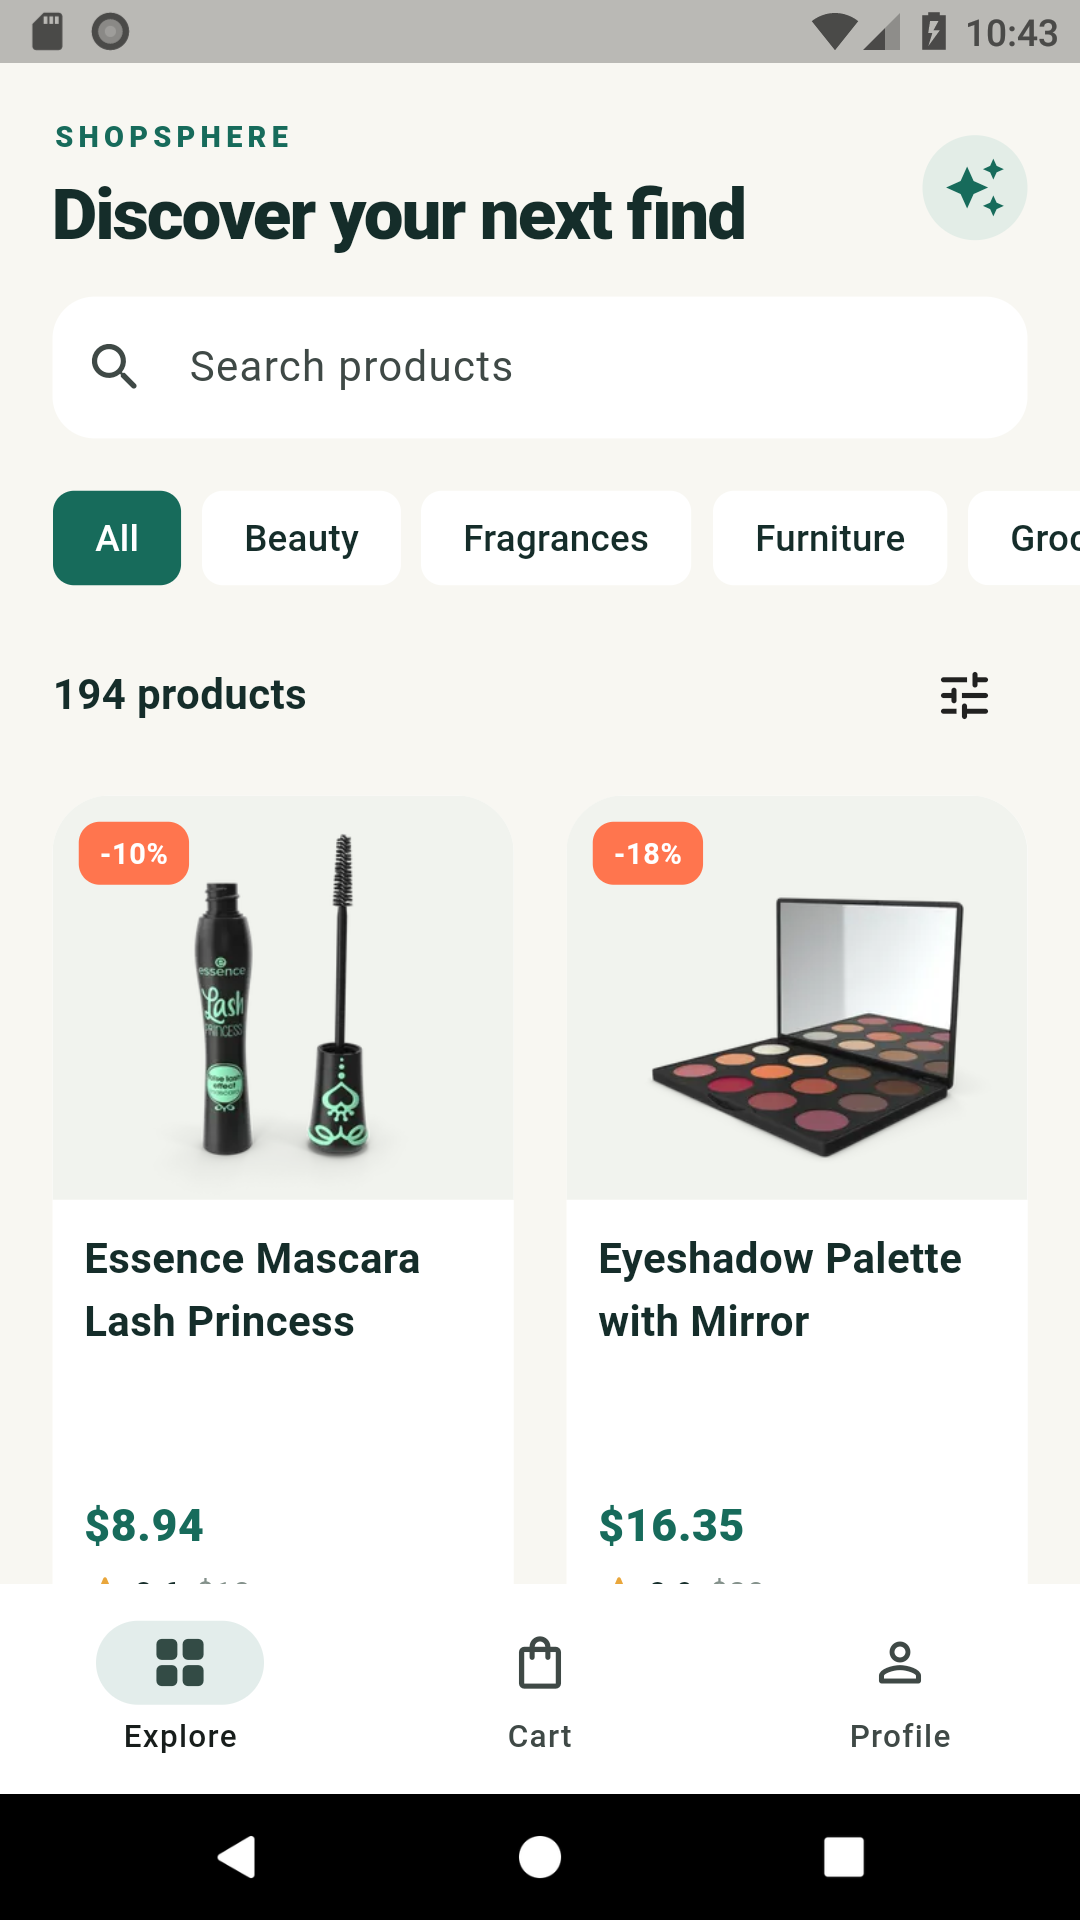
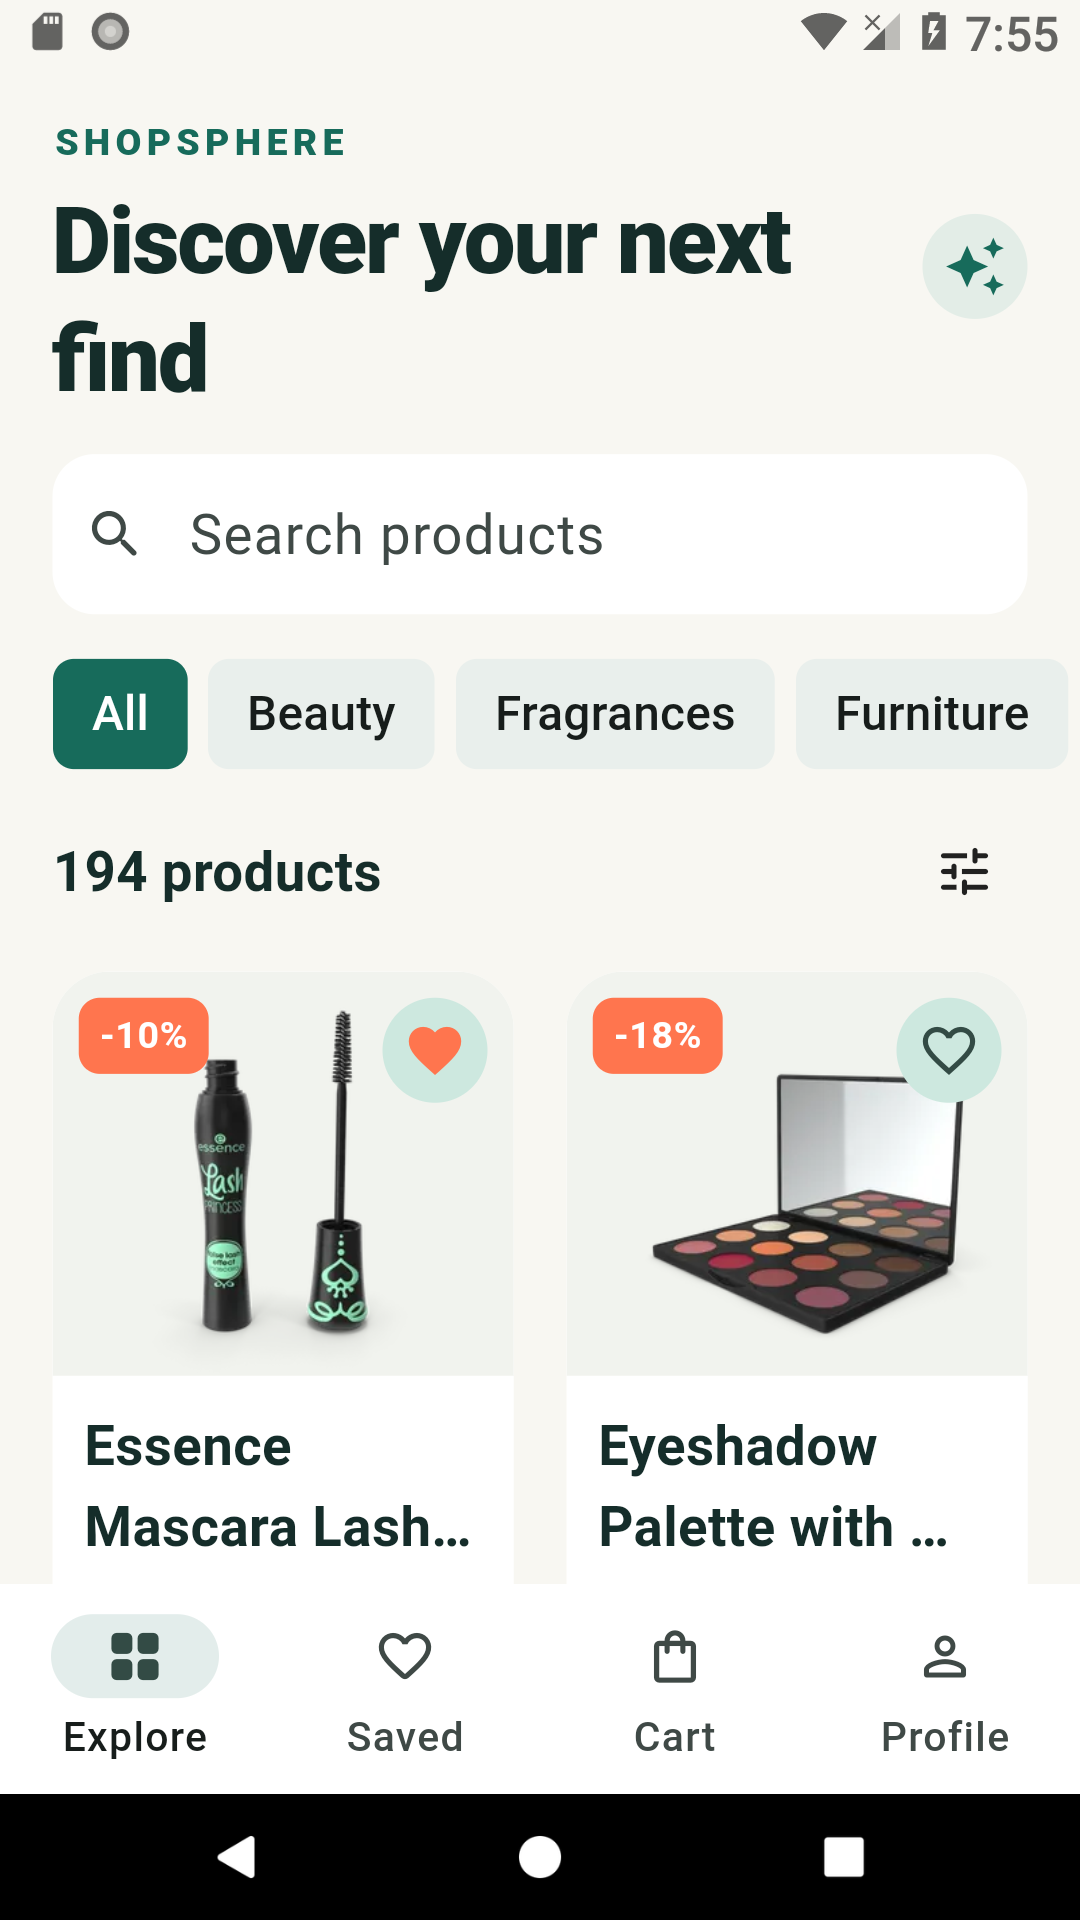
docs(qa): record final release verification and screenshots

diff --git a/README.md b/README.md
@@ -1,10 +1,10 @@
 # ShopSphere
 
-ShopSphere is a Material 3 shopping app for the Prosessed Flutter Developer Intern assignment. It uses the public DummyJSON API for sign-in, product discovery, profile and simulated checkout. The cart is stored on the device. The app is designed for phones and tablets, with a navigation rail and a side-by-side product view on wide layouts.
+ShopSphere is a Material 3 shopping app for the Prosessed Flutter Developer Intern assignment. It uses the public DummyJSON API for sign-in, product discovery, profile and simulated checkout. The app includes persistent cart and saved items, an offline product cache, dark mode, and English/Hindi UI. It is designed for phones and tablets, with a navigation rail and a side-by-side product view on wide layouts.
 
-> **Submission status:** Release APK built, signature-verified, installed and smoke-tested on Android 8.0 phone and tablet emulators. Phone/tablet screenshots and live API error-test evidence are included. Demo video, GitHub Release, Drive upload and public-link checks remain before submission. The confidential assignment brief is intentionally excluded from this repository.
+> **Submission status:** Implementation and local QA are complete. The release APK is signature-verified and install-tested on Android 8.0 phone and tablet emulators; screenshots and live API error evidence are included. The demo video, remote release/Drive upload, and final public-link checks are the remaining submission steps. The confidential assignment brief is intentionally excluded from this repository.
 
-Local APK: `release/ShopSphere_Manu_R_v1.0.0.apk` (53.9 MB; build artifact, not committed). Published APK and demo-video links are pending. See the [device QA report](docs/QA_REPORT.md) for tested flows, artifact checksum and reproduction commands.
+Local APK: `release/ShopSphere_Manu_R_v1.0.0.apk` (55,603,930 bytes; build artifact, not committed). Published APK and demo-video links are pending. See the [device QA report](docs/QA_REPORT.md) for tested flows, artifact checksum and reproduction commands.
 
 ## Screenshots
 
@@ -18,6 +18,10 @@ Captured from the installed Android release app. Tablet captures use 1.3× syste
 | --- | --- |
 | ![Tablet landscape](screenshots/tablet/01-landscape-master-detail.png) | ![Tablet portrait](screenshots/tablet/02-portrait-grid.png) |
 
+| Saved items | Offline cache | Dark mode |
+| --- | --- | --- |
+| ![Saved items](screenshots/phone/06-saved.png) | ![Offline cached catalogue](screenshots/phone/06-offline.png) | ![Dark mode profile](screenshots/phone/09-dark-mode.png) |
+
 See the [screenshot index](screenshots/README.md) for profile, airplane-mode recovery, large-text checks, and the separate integration-test captures.
 
 ## Features
@@ -28,30 +32,33 @@ See the [screenshot index](screenshots/README.md) for profile, airplane-mode rec
 | Paginated product catalogue, pull-to-refresh, API categories, search debounce and sorting | Implemented; automated tests and Android catalogue/search checks |
 | Product carousel, reviews, stock, quantity selector and missing-product handling | Implemented; Android details and live 404 checks pass |
 | Persistent cart, totals, badge, simulated checkout and confirmation | Implemented; Android restart and checkout checks pass |
-| Profile via `/auth/me`, logout and expiry handling | Implemented; Android profile and live 401 checks pass |
+| Profile via `/auth/me`, logout, token refresh and expiry handling | Implemented; unit tests and live invalid-refresh check pass |
 | Phone grid/bottom navigation, tablet rail and wide master-detail layout | Verified in phone/tablet portrait and landscape, including 1.3× text |
 | GitHub Actions for format, analysis and tests | Configured; remote run pending |
-| Automatic token refresh, dark theme, wishlist, offline catalogue cache, localization | Not implemented (optional bonus scope) |
+| Automatic token refresh and one-time protected-request retry | Implemented; successful refresh and invalid-refresh paths tested |
+| Persistent wishlist and offline product/category/detail cache | Implemented; restart and airplane-mode fallback verified |
+| Dark theme, English/Hindi localization and product Hero transition | Implemented; preferences persist across restart |
 
 ## Tech stack
 
 - **Flutter 3.47.7 / Dart 3.13.5:** stable SDK used for local analysis and tests.
 - **Provider:** one state-management mechanism for explicit `ChangeNotifier` states and scoped UI rebuilds.
 - **get_it:** composition-root dependency injection so widgets do not construct repositories.
-- **Dio:** one configured API client with timeouts, bearer-token interceptor and debug-only request logging.
+- **Dio:** one configured API client with timeouts, bearer-token/refresh interceptors and debug-only request logging.
 - **flutter_secure_storage:** access and refresh tokens in platform secure storage.
-- **shared_preferences:** small JSON cart snapshot that survives restart.
+- **shared_preferences:** cart, wishlist, product cache, theme and language preferences that survive restart.
 - **cached_network_image:** cached product images with loading and error placeholders.
 - **flutter_lints, flutter_test, mocktail:** static checks and isolated tests.
 
 ## Architecture
 
 ```text
-Widget → Provider controller → use case → repository interface
+Widget → Provider controller → use case → repository contract
                                         ↓
                                repository implementation
-                                        ↓
-                               Dio / secure or local storage
+                                ↙                 ↘
+                    remote data source       local data source
+                           Dio            secure/preferences storage
 ```
 
 Each feature lives under `lib/features/<feature>/` with `presentation`, `domain` and `data` directories. The domain layer contains plain Dart entities and contracts. `lib/core/` holds error mapping, network setup, dependency wiring, theme and shared UI. `main.dart` is the composition entry point.
@@ -64,7 +71,7 @@ Provider and `ChangeNotifier` keep the assignment's small set of flows straightf
 
 ## Error handling
 
-The shared `mapFailure` function converts Dio timeouts, socket errors, HTTP 400/401/403/404/5xx and parse failures into user-facing typed failures. Protected requests attach the bearer token. HTTP 401 clears the token and returns to login. Network screens expose retry controls; catalogue pagination has its own retry footer. Automatic refresh is left as bonus work.
+The shared `mapFailure` function converts Dio timeouts, socket errors, HTTP 400/401/403/404/5xx and parse failures into user-facing typed failures. Protected requests attach the bearer token. On HTTP 401, the client uses the stored refresh token and retries the original request once; an invalid refresh safely clears the session and returns to login. Network screens expose retry controls, catalogue pagination has its own retry footer, and network-only catalogue failures can fall back to a query-keyed local cache with a visible offline banner.
 
 ## Getting started
 
@@ -74,13 +81,13 @@ The shared `mapFailure` function converts Dio timeouts, socket errors, HTTP 400/
 4. Run `dart format lib test`, `flutter analyze` and `flutter test`.
 5. Build with `flutter build apk --release`.
 
-No code generation is used. The Android and iOS platform projects are included in this repository.
+No code generation is required. The Android and iOS platform projects are included in this repository. Android is fully build/device verified; the iOS target was not compiled in the local QA environment because full Xcode is not installed.
 
 ## Testing
 
-Run `flutter test --coverage`. **59 unit/widget tests pass**, covering JSON fixtures, repository success and failure paths, validation, failure mapping, controller state transitions, cart totals, checkout, and large-text layout. Short-viewport regression tests verify that error and empty-state actions remain reachable at 1.3× text. Current line coverage is **81.3%** (932 of 1,147 measured lines). `flutter analyze` reports zero issues.
+Run `flutter test --coverage`. **66 unit/widget tests pass**, covering JSON fixtures, repository/data-source boundaries, validation, failure mapping, controller state transitions, token refresh, offline fallback, persisted settings/wishlist, out-of-stock behavior, cart totals, checkout, and large-text layouts. Short-viewport regression tests verify that error and empty-state actions remain reachable at 1.3× text. Current line coverage is **78.0%** (1,257 of 1,612 measured lines). `flutter analyze` reports zero issues.
 
-The separate Android live-API integration scenario also passes. It exercises actual DummyJSON HTTP 400, 500, 404, delayed success, receive timeout and 401 responses through the app's repositories/controllers/UI. Run it on a disposable test emulator (it clears that app's stored session/cart):
+The separate Android live-API integration scenario also passes. It exercises actual DummyJSON HTTP 400, 500, 404, delayed success, receive timeout, and the protected-request/invalid-refresh flow through the app's repositories, controllers and UI. Run it on a disposable test emulator (it clears that app's stored session/cart):
 
 ```sh
 flutter drive --driver=test_driver/live_api_test.dart --target=integration_test/live_api_test.dart -d <android-device-id> --debug
@@ -95,7 +102,7 @@ Password: `emilyspass`
 
 ## Assumptions and trade-offs
 
-DummyJSON checkout only simulates an order; the server does not persist it. The app clears its local cart only after a successful response, and clears it on logout to avoid showing one account's items to another. Search and category selection are mutually exclusive because DummyJSON exposes separate search and category endpoints. Prices are displayed in the API's dollar denomination. The generated Android release configuration currently uses a local debug signing key for this demo; production distribution would require a separately managed release key. With more time I would add token refresh, a product cache, accessibility audit on real devices, and a dark theme.
+DummyJSON checkout only simulates an order; the server does not persist it. The app clears its local cart only after a successful response, and clears account-scoped local state on logout. Search and category selection are mutually exclusive because DummyJSON exposes separate search and category endpoints. Offline fallback is intentionally limited to network failures, so server/timeout states remain visible and retryable. Prices use the API's dollar denomination. The Android release configuration uses a local debug signing key for this assignment artifact; production distribution would require a separately managed release key. A physical-device accessibility audit and full iOS build remain sensible production follow-ups.
 
 ## AI assistance
 
@@ -103,4 +110,4 @@ Codex assisted with implementation planning, code generation, test scaffolding, 
 
 ## Author
 
-Manu R. Contact email and portfolio link to be confirmed before publication.
+Manu R · [GitHub](https://github.com/manuprince123) · [manu108cs21028@gmail.com](mailto:manu108cs21028@gmail.com)

diff --git a/docs/QA_REPORT.md b/docs/QA_REPORT.md
@@ -5,8 +5,8 @@ Verified on 18 October 2026. This report separates manual release-app checks fro
 ## Release artifact
 
 - File: `release/ShopSphere_Manu_R_v1.0.0.apk` (local build artifact; excluded from Git).
-- Size: 53,866,410 bytes (53.9 MB decimal).
[1 lines of base64/hex data omitted]
+- Size: 55,603,930 bytes (55.6 MB decimal).
[1 lines of base64/hex data omitted]
 - Package: `com.example.shopsphere`; version `1.0.0`, build `1`.
 - Minimum Android API: 26; target API: 36; Internet permission present.
 - `apksigner verify --verbose`: verification passes using APK Signature Scheme v2.
@@ -22,7 +22,7 @@ Both are Android 8.0 / API 26 Google APIs ARM64 emulators. No physical-device or
 | Phone | 1080×1920 px, 420 dpi (about 411×731 dp) | Portrait two-column catalogue and bottom navigation; landscape navigation rail; 1.0× and 1.3× system text; offline error scroll and retry |
 | Pixel C tablet | 2560×1800 px, 320 dpi (1280×900 dp) | Landscape master-detail and navigation rail; rotated portrait three-column grid; 1.0× and 1.3× system text |
 
-The final APK was installed successfully on both emulators and launched after installation. Tablet screenshots were recaptured from that final APK. Normal phone flow captures precede only the shared error/empty-state scrolling fix; final large-text/recovery captures include it.
+The final APK was installed successfully on both emulators and launched after installation. The principal phone and tablet captures were recaptured from the release build after the feature-completion pass.
 
 ## Manual release-app checks
 
@@ -35,9 +35,11 @@ The final APK was installed successfully on both emulators and launched after in
 | Checkout | DummyJSON simulated order #209 returned; confirmation appeared and cart badge cleared |
 | Profile | `/auth/me` data displayed the avatar, Emily Johnson, email and phone |
 | Search/category | `phone` produced 23 search results; Beauty and Fragrances each produced five products |
-| Session expiry | Tablet restart after the token expired returned to login with an explanatory session-expired message; sign-in recovered |
-| Airplane mode | Wi-Fi disabled and airplane mode enabled; Android reported no active default network; requesting a new category displayed offline feedback |
-| Offline retry/recovery | Retry remained reachable after scrolling in phone landscape at 1.3× text; after restoring connectivity, retry loaded the five Fragrances products |
+| Saved items | Toggling the product heart populated the Saved tab; the saved product survived force-stop/relaunch |
+| Theme and language | Dark mode and Hindi could be selected in Profile; both persisted across restart; English/light mode were restored for the main capture set |
+| Session expiry | Invalid access and refresh tokens caused a refresh attempt, then returned to login with explanatory text and cleared tokens/cart |
+| Airplane mode/cache | Wi-Fi disabled and airplane mode enabled; changing the catalogue query displayed cached products with a visible offline banner and retry |
+| Offline retry/recovery | After connectivity was restored, Retry returned the catalogue to its online state; controls remained reachable at 1.3× text |
 | Responsive layouts | Reviewed phone/tablet portrait and landscape captures; tablet product selection populated the adjacent detail pane; enlarged text retained reachable controls |
 
 Pagination, sorting permutations, out-of-stock behavior, model parsing, repository failures and controller transitions also have automated coverage. This report does not label every possible product and device combination as manually verified.
@@ -53,8 +55,9 @@ Pagination, sorting permutations, out-of-stock behavior, model parsing, reposito
 | Not found | `GET /products/9999` returned 404; “Product not found” and working app-bar back action |
 | Slow network | `GET /products?limit=20&skip=0&delay=3000`; skeleton visible during delay; real products appeared after 3,721 ms in this run |
 | Timeout | `delay=5000` with a test-only 500 ms receive timeout; typed timeout and retry UI; normal retry recovered |
-| Unauthorized | Invalid token in secure storage caused real `/auth/me` 401; UI returned to login with session-expired text and both tokens/cart were cleared |
-| Bad refresh token | Not an app flow: automatic token refresh is an unimplemented optional bonus. 403-to-unauthorized mapping has unit coverage |
+| Unauthorized/refresh | Invalid credentials in secure storage caused the protected request to invoke `/auth/refresh`; its real 403 returned the UI to login and cleared both tokens/cart |
+
+A separate unit test verifies the successful branch: a protected 401 stores refreshed credentials and retries the original request exactly once.
 
 Evidence: [request/results JSON](live-api-results.json) and [screenshots](../screenshots/README.md). No access or refresh token is written to the result JSON.
 
@@ -62,6 +65,10 @@ Evidence: [request/results JSON](live-api-results.json) and [screenshots](../scr
 
 1. **Release startup crash:** Android R8 renamed Kotlin coroutine/runtime types referenced by the shared-preferences JNI bindings. Added targeted keep rules in `android/app/proguard-rules.pro`; rebuilt, reinstalled, and verified login, cart persistence and restart.
 2. **Short-screen error actions:** Error/empty columns could extend beyond the available landscape height. Made the state views scrollable, added two regression tests, and checked the final APK's landscape retry button at 1.3× text.
+
+## iOS build note
+
+The iOS runner project and plugin registrant are present. `flutter build ios --no-codesign` could not be executed to compilation because this QA host has Apple Command Line Tools only (`/Library/Developer/CommandLineTools`) and no Xcode/xcodebuild installation. No iOS build-pass claim is made.
 
 The emulator environment temporarily lost DNS resolution. Host HTTPS and emulator IP connectivity still worked. Restarting the test AVDs with `-dns-server 8.8.8.8,1.1.1.1` restored name resolution; the live suite subsequently passed.
 
@@ -79,11 +86,11 @@ adb -s <android-device-id> shell am start -n com.example.shopsphere/.MainActivit
 Use a test device for the integration scenario: it clears this app's tokens/cart and intentionally replaces them with invalid values for the expiry check. Build with the default pub step when switching from integration to release so generated plugin registration matches the build mode.
 
 - Analysis: zero issues.
-- Unit/widget suite: 59 passed.
-- Coverage: 932 / 1,147 measured lines, 81.3%.
+- Unit/widget suite: 66 passed.
+- Coverage: 1,257 / 1,612 measured lines, 78.0%.
 - Live Android integration scenario: passed, with seven recorded checks and six captured states.
-- Capture inventory: eight phone images, two tablet images, six integration-test images.
+- Capture inventory: ten phone images, two tablet images, six integration-test images.
 
 ## Remaining submission work
 
-The local APK, device QA and screenshots requested in this work are complete. A 2–4 minute demo video, repository publication, GitHub Release `v1.0.0` attachment, Drive upload/sharing, incognito link verification, author contact details and submission email remain. None are claimed completed by this report.
+The local APK, implementation, device QA and screenshots are complete. A 2–4 minute demo video, repository publication, GitHub Release `v1.0.0` attachment, Drive upload/sharing, incognito link verification, final contact details and submission email remain. None are claimed completed by this report.

diff --git a/screenshots/README.md b/screenshots/README.md
@@ -9,9 +9,11 @@ These are actual Android emulator captures, not mockups. `phone/` and `tablet/` 
 3. [Persisted cart and badge](phone/03-cart.png)
 4. [Order confirmation](phone/04-order-confirmation.png)
 5. [Profile](phone/05-profile.png)
-6. [Airplane-mode error](phone/06-offline.png)
-7. [Landscape at 1.3× text, scrolled to reachable retry](phone/07-landscape-large-text-offline.png)
-8. [Portrait at 1.3× text, successful retry after network restoration](phone/08-large-text-recovered.png)
+6. [Persistent saved item](phone/06-saved.png)
+7. [Airplane-mode cached catalogue and offline banner](phone/06-offline.png)
+8. [Landscape at 1.3× text, scrolled to reachable retry](phone/07-landscape-large-text-offline.png)
+9. [Portrait at 1.3× text, successful retry after network restoration](phone/08-large-text-recovered.png)
+10. [Persistent dark-mode preference](phone/09-dark-mode.png)
 
 ## Tablet release app
 
@@ -27,6 +29,6 @@ Both use 1.3× system text on a Pixel C API 26 emulator.
 3. [HTTP 404 product not found](qa/03-product-not-found.png)
 4. [Three-second network delay skeleton](qa/04-slow-network-loader.png)
 5. [Receive timeout and retry](qa/05-timeout.png)
-6. [HTTP 401 session expiry](qa/06-session-expired.png)
+6. [Protected request, rejected refresh and safe session expiry](qa/06-session-expired.png)
 
 See [QA report](../docs/QA_REPORT.md) for device dimensions, tested scope and distinctions between release checks and the test entry point.
